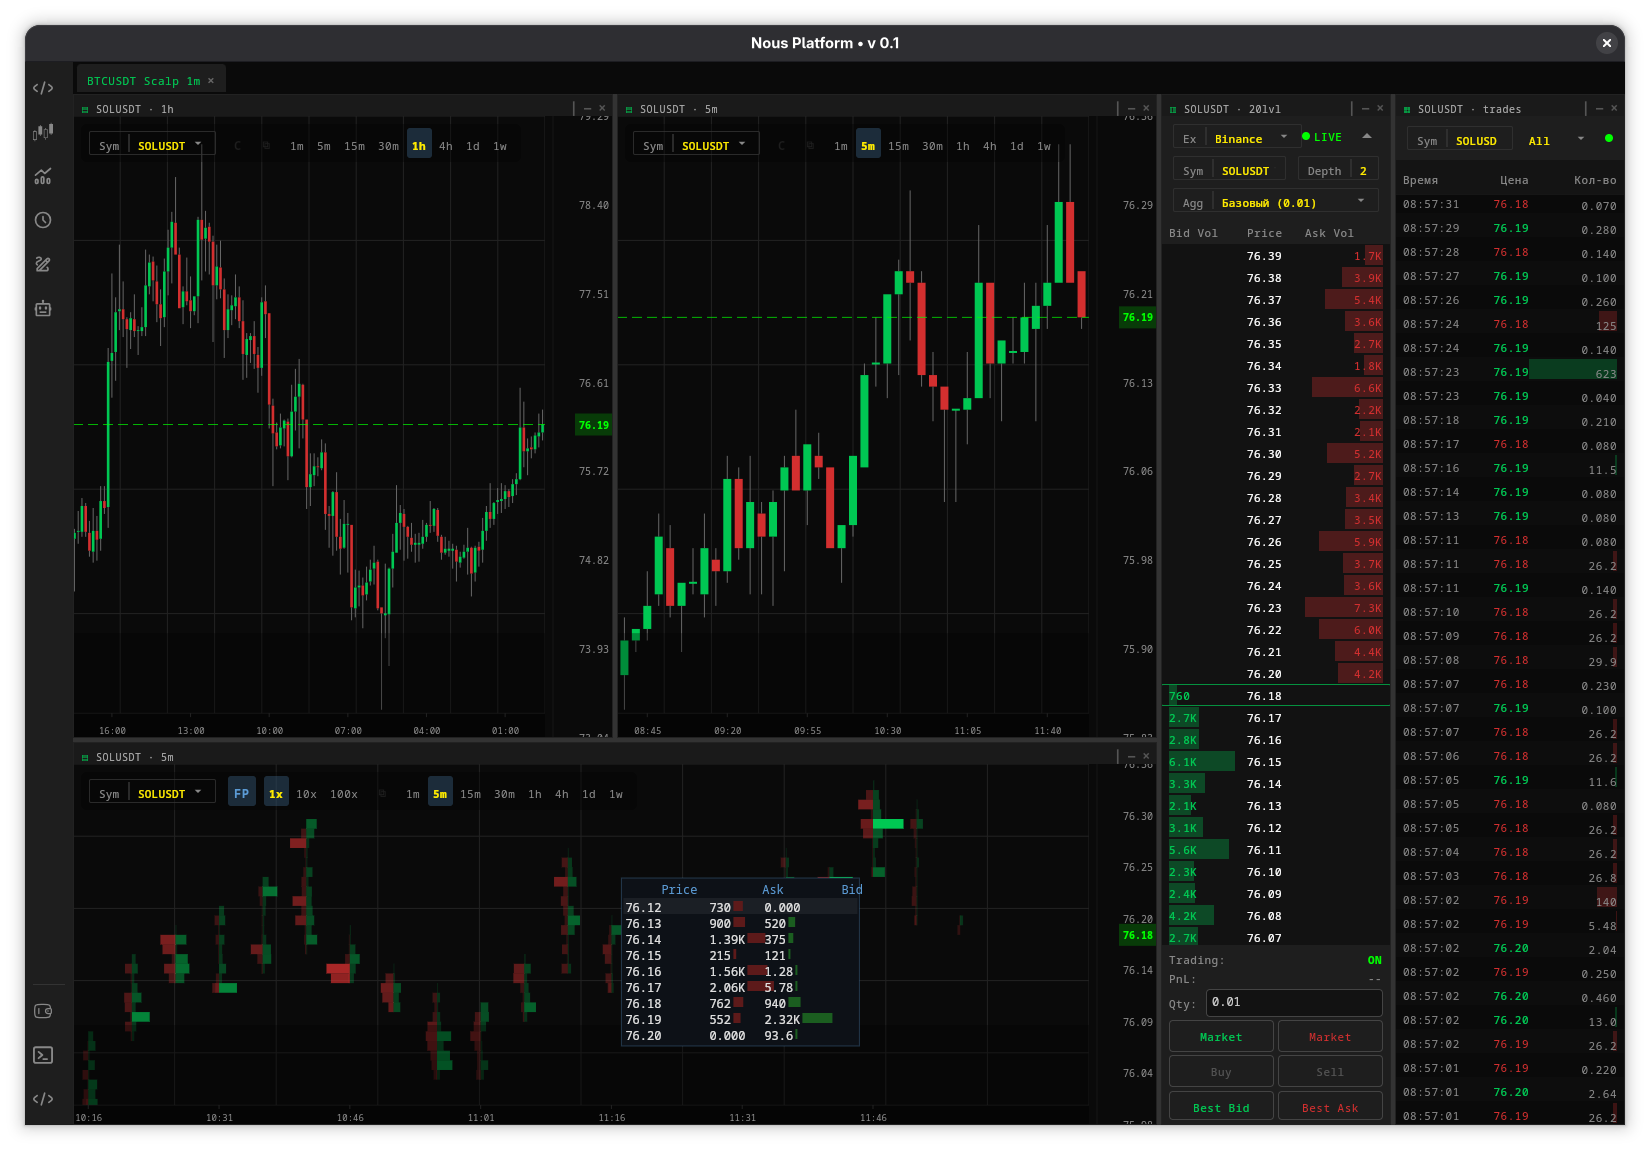
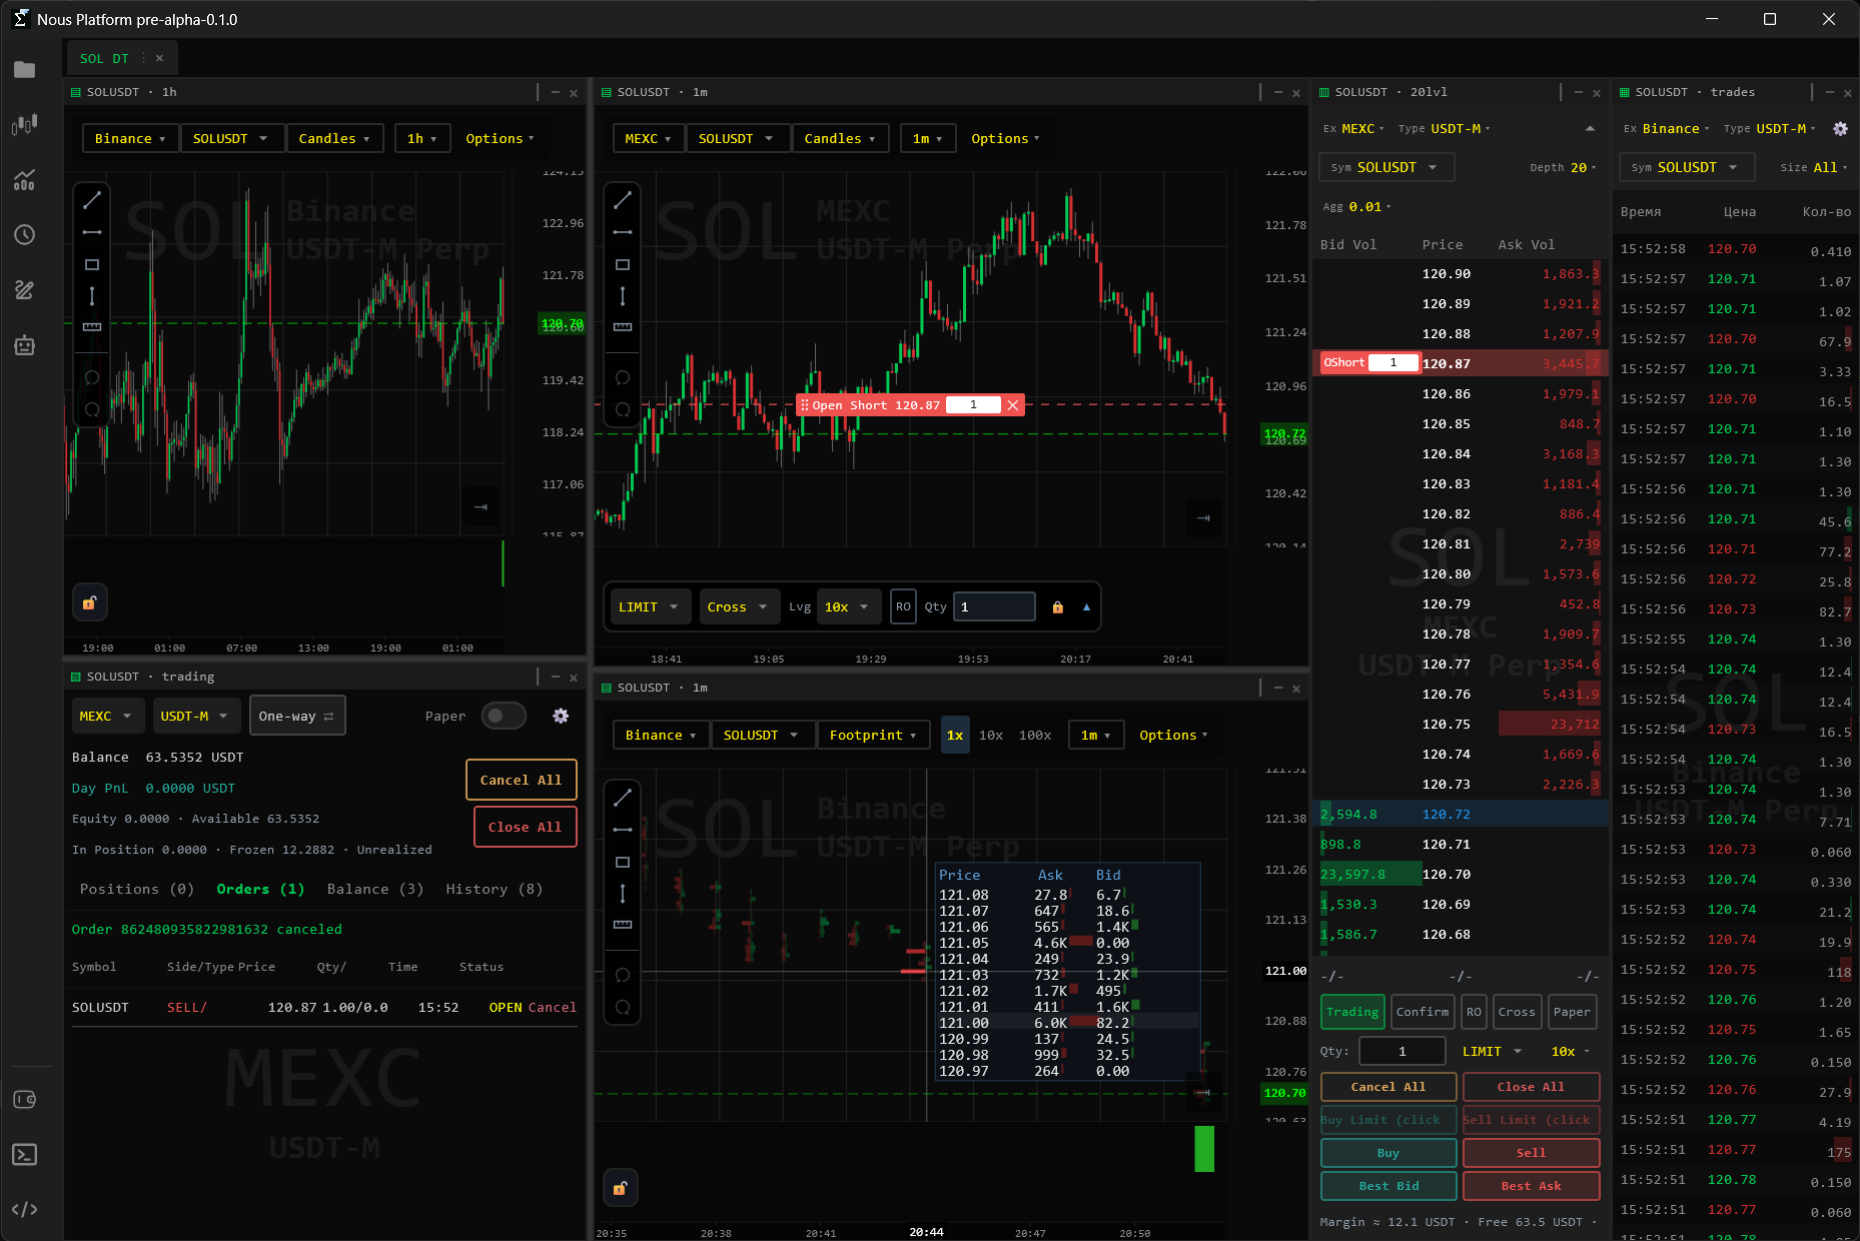
update readme and screenshot

Changed region(s): [[0.0, 0.0, 1.0, 1.0], [0.2164, 0.0913, 0.2782, 0.1522], [0.2164, 0.8522, 0.2473, 0.8826]]

diff --git a/README.md b/README.md
@@ -1,13 +1,13 @@
-# Nous Platform v0.0.1 Pre-Alpha
+# Nous Platform v0.1.0 pre-Alpha
 
-![Windows](https://shields.io)
-![Linux](https://shields.io)
-![macOS](https://shields.io)
+![Windows](https://img.shields.io/badge/platform-Windows-blue)
+![Linux](https://img.shields.io/badge/platform-Linux-orange)
+![macOS](https://img.shields.io/badge/platform-macOS-lightgrey)
 
 ***Project in active development***
 
 > [!WARNING]
-> **Live trading** and **paper trading** are not yet supported.
+> **Live trading works only MEXC USDT-M futures**.
 
 This ambitious project needs your active support! You can help out by donating, contributing, or submitting PRs (pull requests).
 
